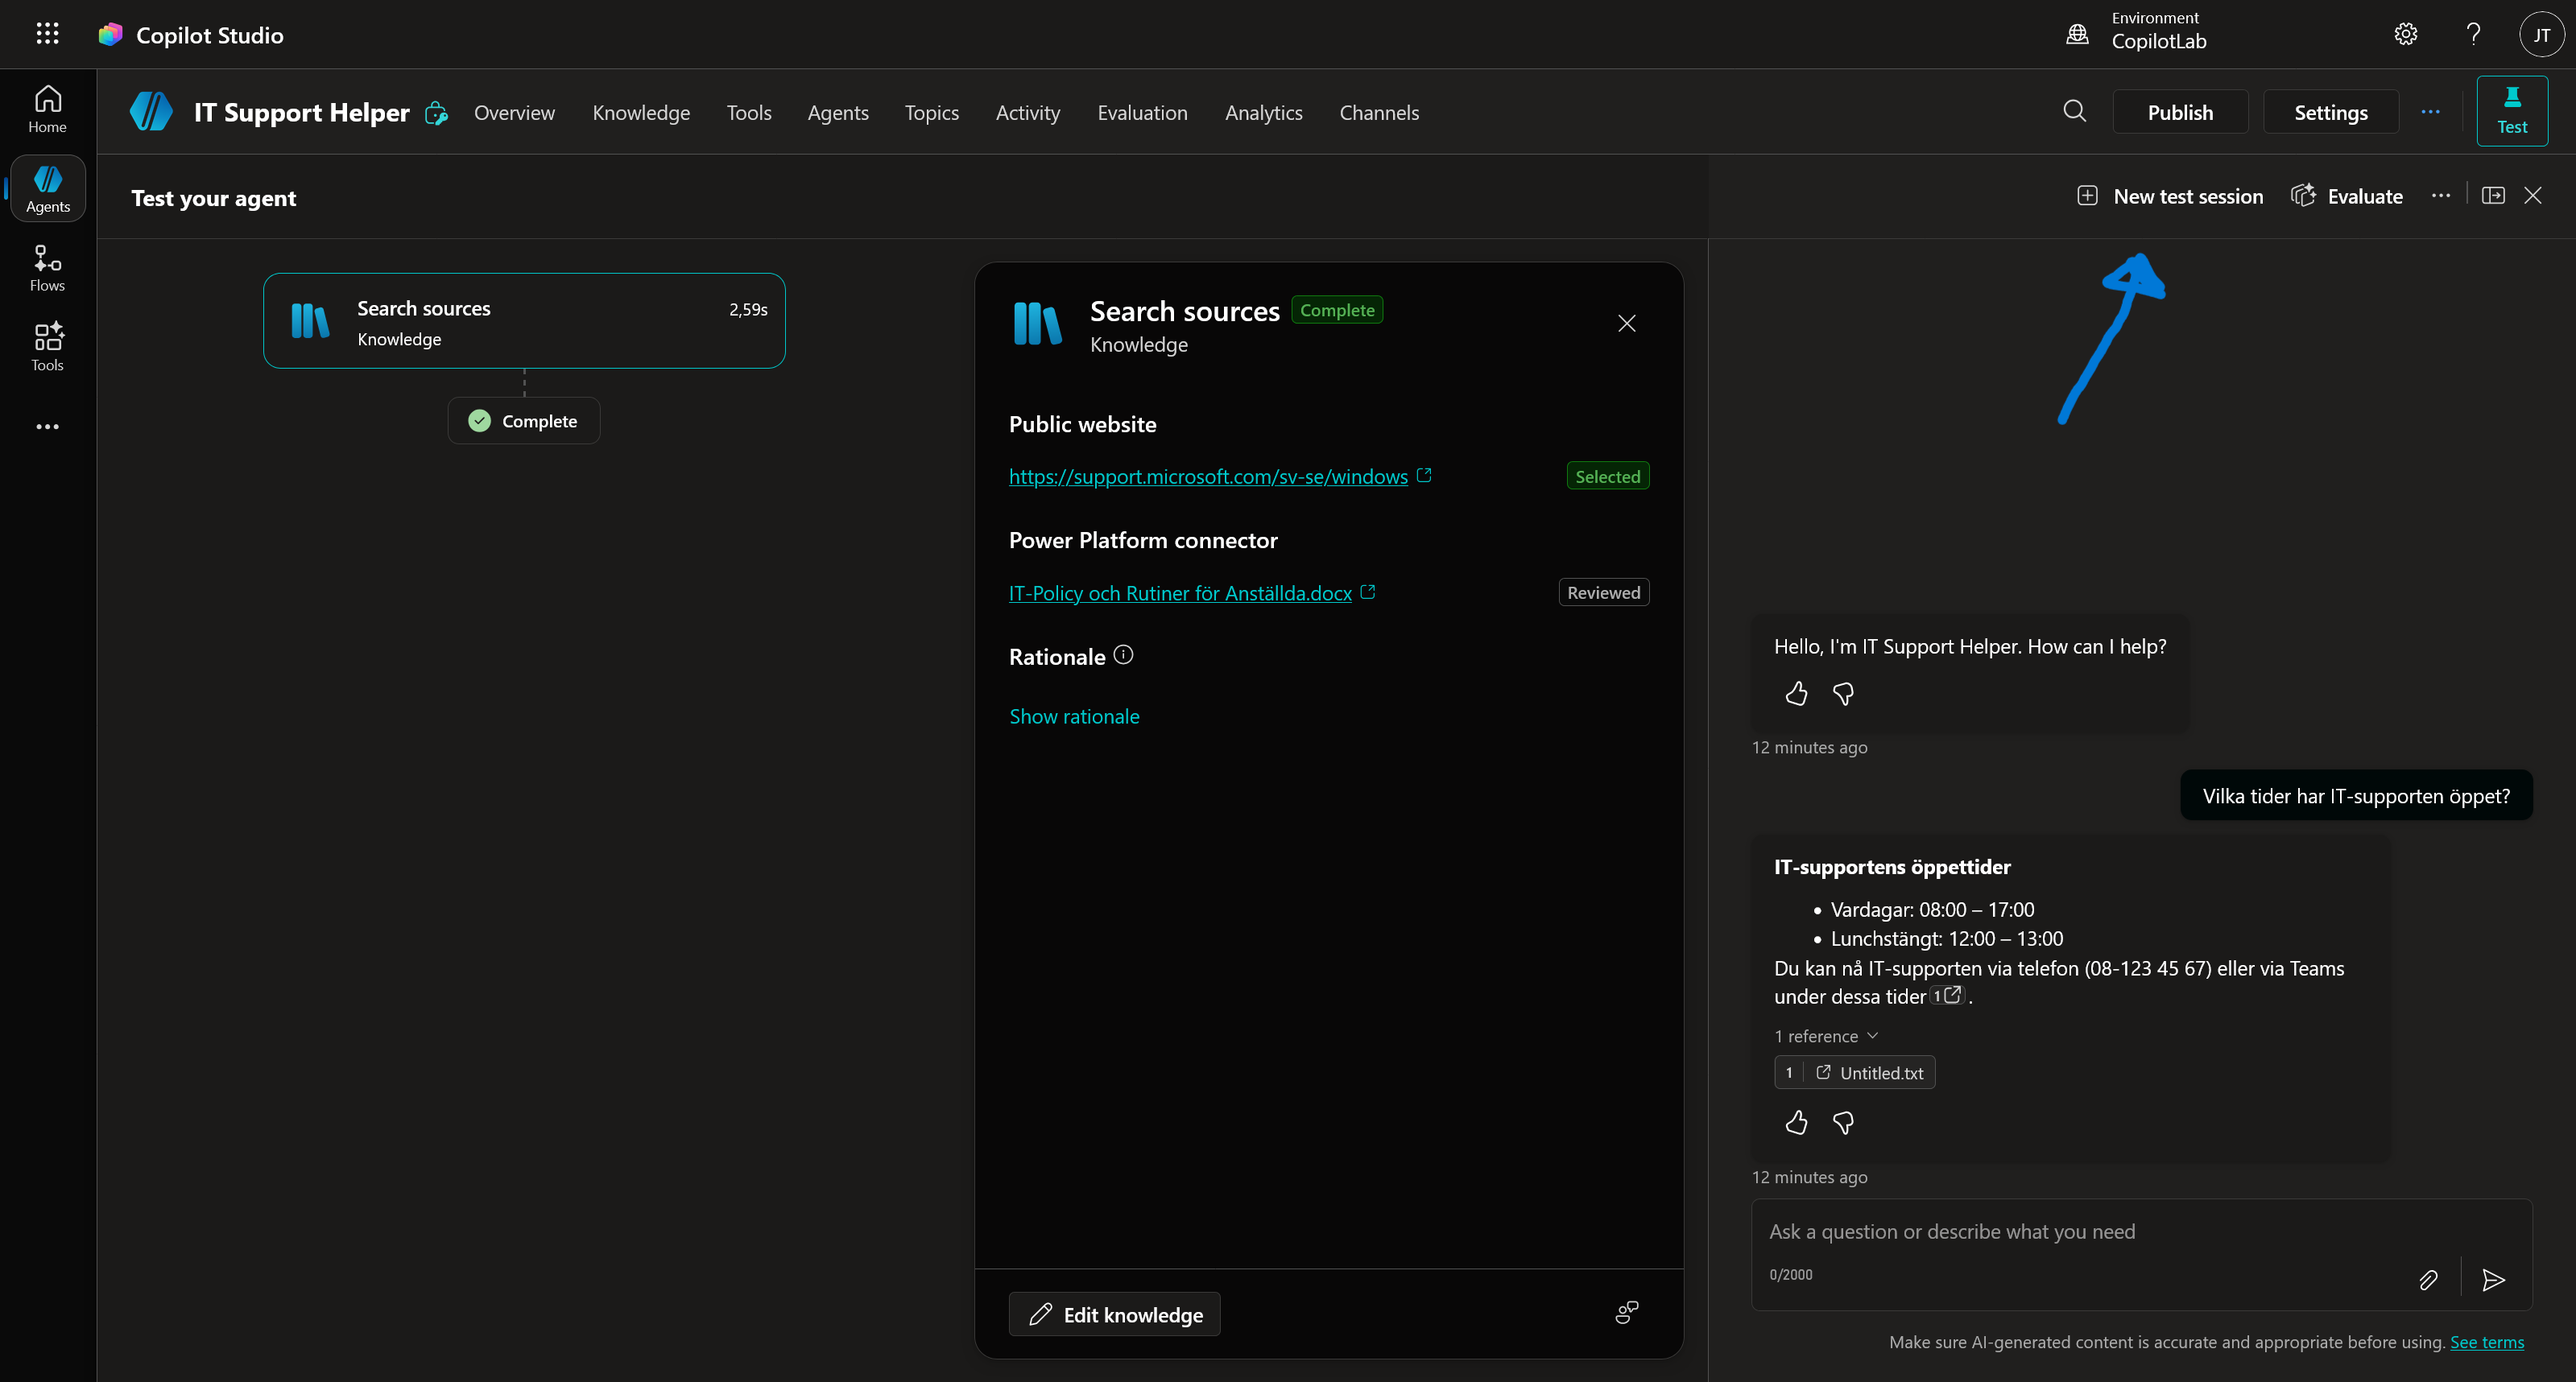
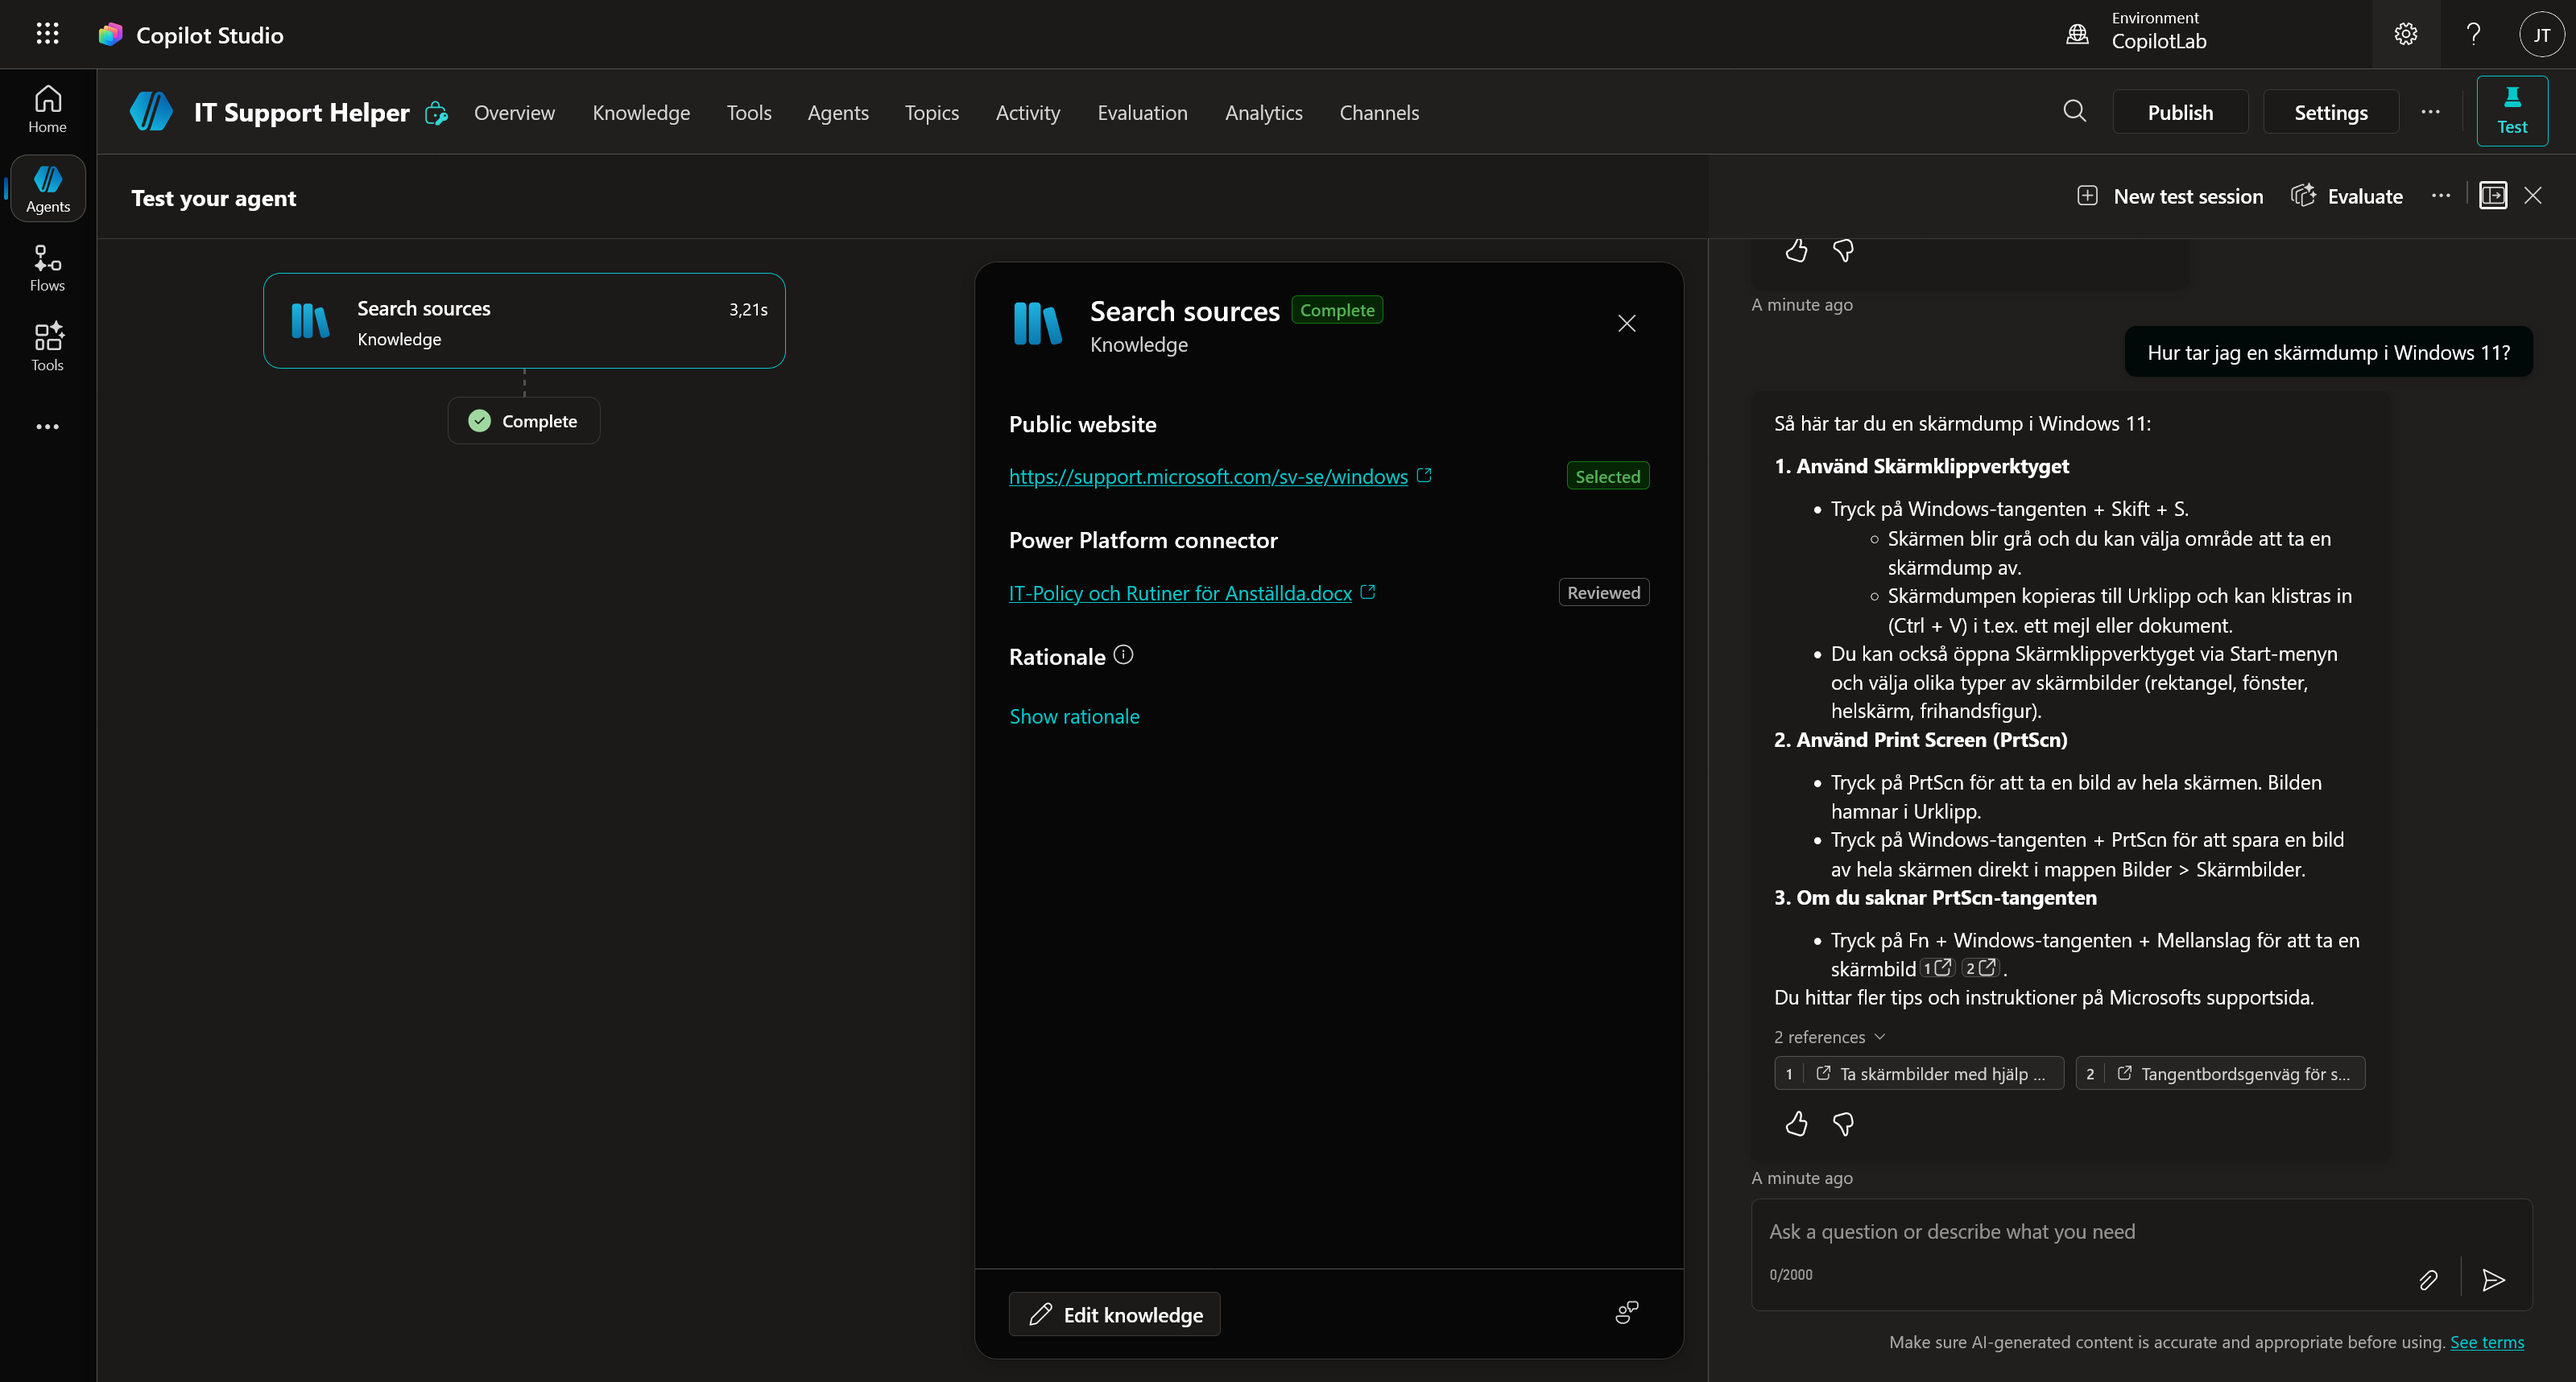
Updated setup instructions with new screenshots and more

diff --git a/docs/05-add-knowledge.md b/docs/05-add-knowledge.md
@@ -140,7 +140,7 @@ Nu ska vi se hur den använde våra källor.
 ### Test 2: Den externa frågan
 Nu testar vi den andra källan för att se om den kan söka på webben.
 
-1.  Klicka på **New test session** (eller Refresh-ikonen) högst upp i testpanelen för att rensa minnet.
+1.  Klicka på **New test session** högst upp i testpanelen för att rensa minnet.
 
     ![Starta om testet](assets/images/chap05/test-reset.png)
 
@@ -149,6 +149,8 @@ Nu testar vi den andra källan för att se om den kan söka på webben.
 
 **Förväntat resultat:**
 Agenten ska ge dig en steg-för-steg guide hämtad från Microsofts hemsida.
+
+![Förväntat resultat](assets/images/chap05/test-expected-result.png)
 
 !!! success "Succé!"
     Du har nu byggt en **hybrid-agent**! Den kombinerar dina unika företagsregler med allmän kunskap från internet.
